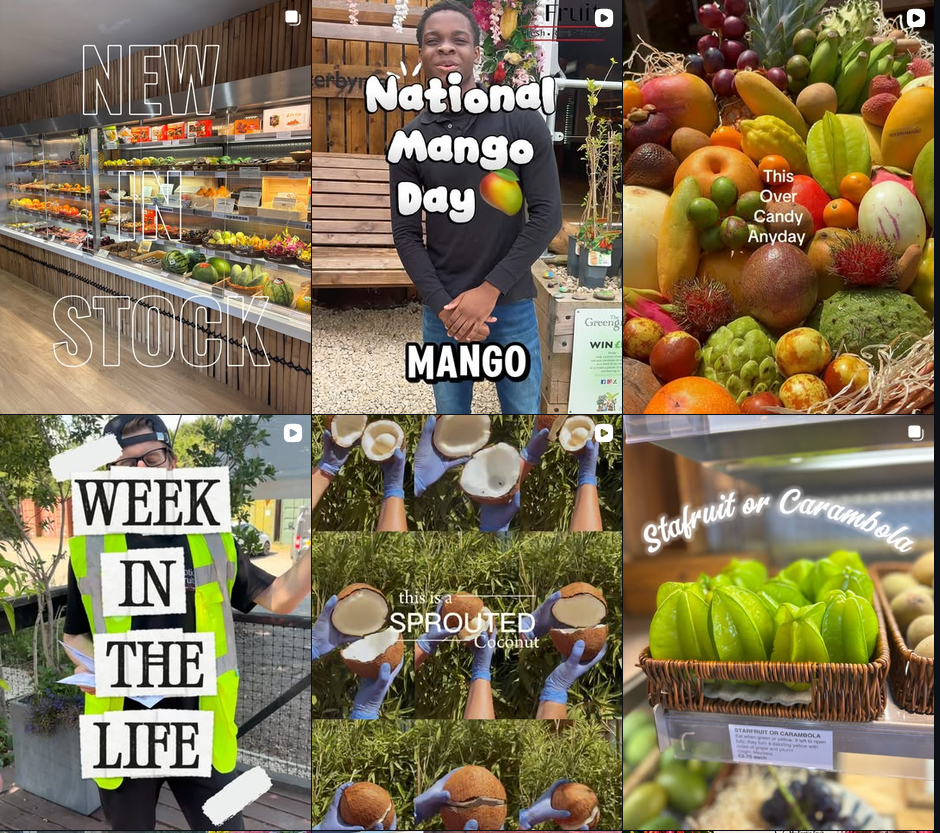
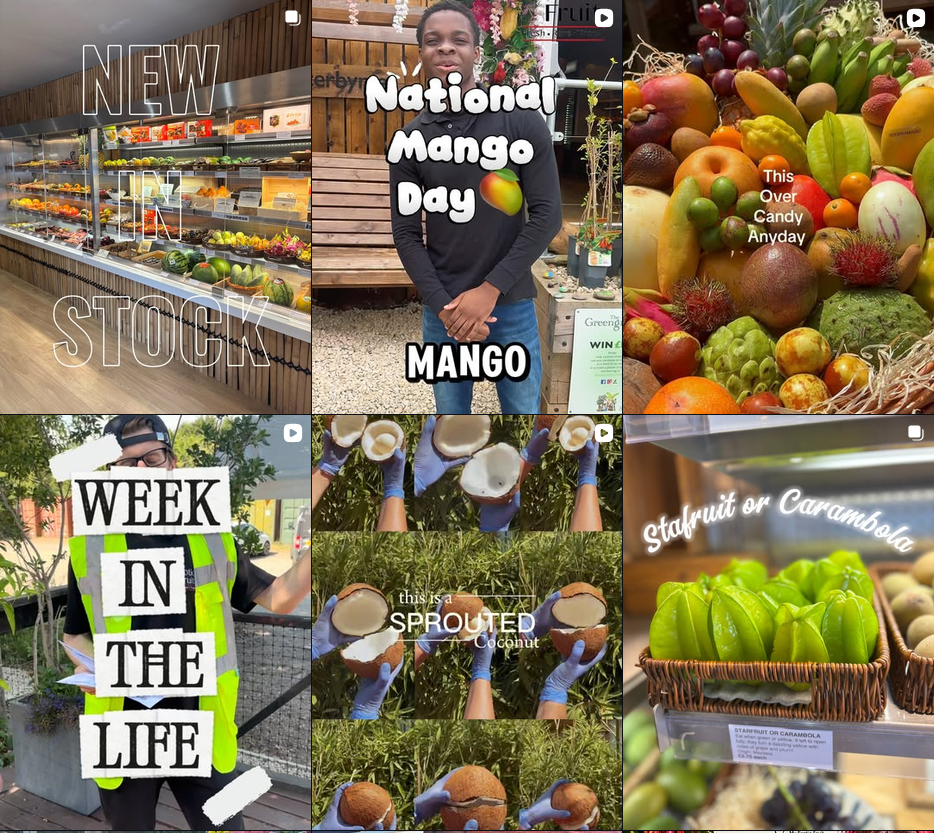
feat: promo buttons at the bottom of the organic fruit page fix: instagram promo button having a weird border on the right fix: promo boxes with multiple buttons not spacing them fix: removed bloat word on organic subtitle causing a widow on my screen

diff --git a/docs/organic-produce/index.html b/docs/organic-produce/index.html
@@ -18,6 +18,8 @@
     <link rel="stylesheet" href="../questions/faq.css">
     <link rel="stylesheet" href="../questions/gallery.css">
 
+    <link rel="stylesheet" href="../exotic-fruits/promo.css">
+
     <link rel="stylesheet" href="title.css">
     <link rel="stylesheet" href="summary.css">
 
@@ -97,7 +99,7 @@
             </h1>
             <h2>
                 Our organic range is carefully sourced from trusted growers
-                who farm with respect for the land, biodiversity and your wellbeing.
+                who farm with respect for the land and your wellbeing.
             </h2>
         </section>
 
@@ -444,6 +446,38 @@
                         </a>
                     </div>
                 </details>
+            </div>
+        </section>
+
+        <section class="promo events-grid">
+            <div class="promo-grid">
+                <div class="box instagram">
+                    <h1>Instagram</h1>
+                    <p>
+                        Follow us on Instagram to view our new arrivals to the organic section.
+                        Each restock is a fun new surprise, view one of our previous
+                        stock updates below!
+                    </p>
+                    <a href="https://www.instagram.com/thegreengrocerbymef/p/DbbCnbTDDui/" target="_blank">
+                        <button>Stock update</button>
+                    </a>
+
+                    <a href="https://www.instagram.com/thegreengrocerbymef/" target="_blank">
+                        <button>Follow us</button>
+                    </a>
+                </div>
+                <div class="box blog">
+                    <h1>Blog</h1>
+                    <p>
+                        Discover the world of exotic fruit through
+                        our latest stories, guides and inspiration.
+                        Learn about unique varieties, where they come from,
+                        and the best ways to enjoy them.
+                    </p>
+                    <a href="https://myexoticfruit.com/blog" target="_blank">
+                        <button>Read here</button>
+                    </a>
+                </div>
             </div>
         </section>
     </main>

diff --git a/docs/exotic-fruits/promo.css b/docs/exotic-fruits/promo.css
@@ -69,7 +69,7 @@
                 background-color: rgb(0 0 0 / 0.2);
                 border-width: 0.2vh;
                 border-radius: 0.5vh;
-                margin: 2vh 0;
+                margin: 2vh 1vw 0 0;
                 padding: max(1vh, 1vw) max(3vh, 3vw);
                 text-transform: uppercase;
                 font-size: max(1.5vh, 1vw);
